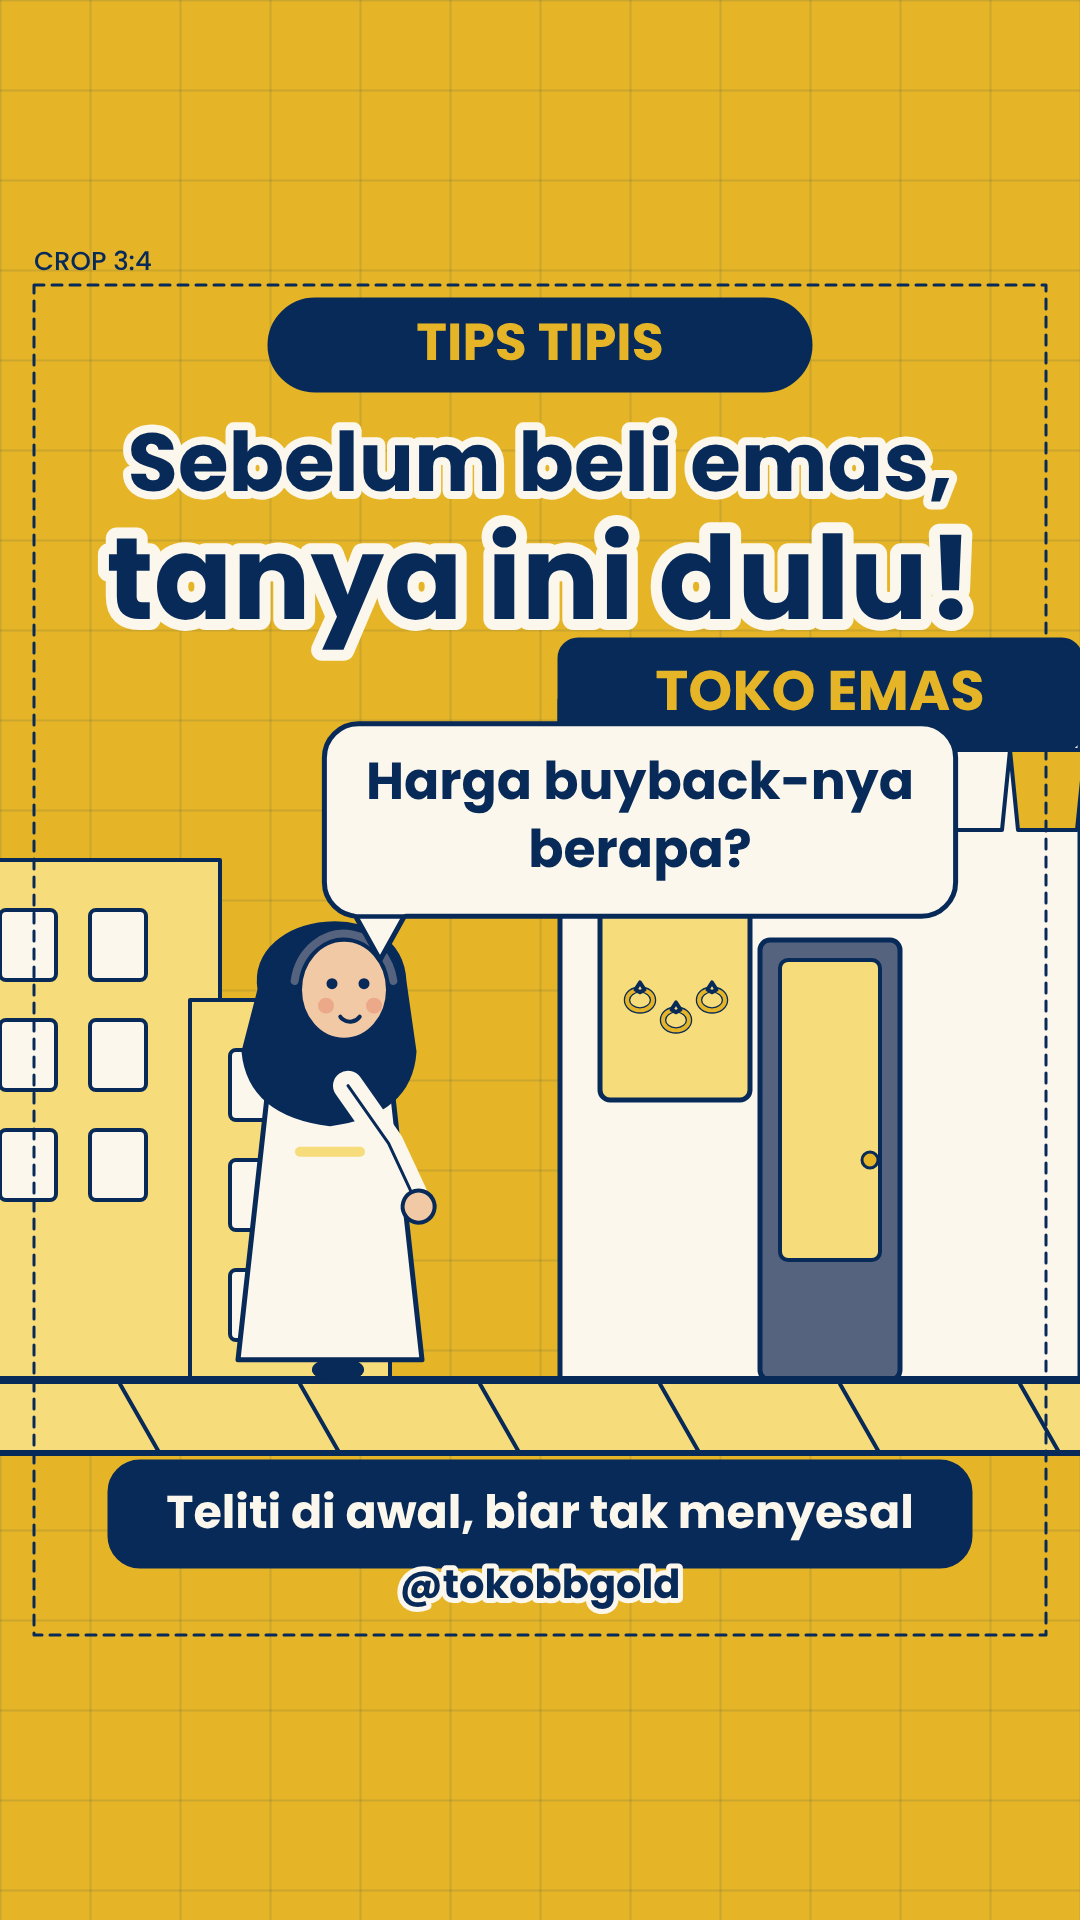
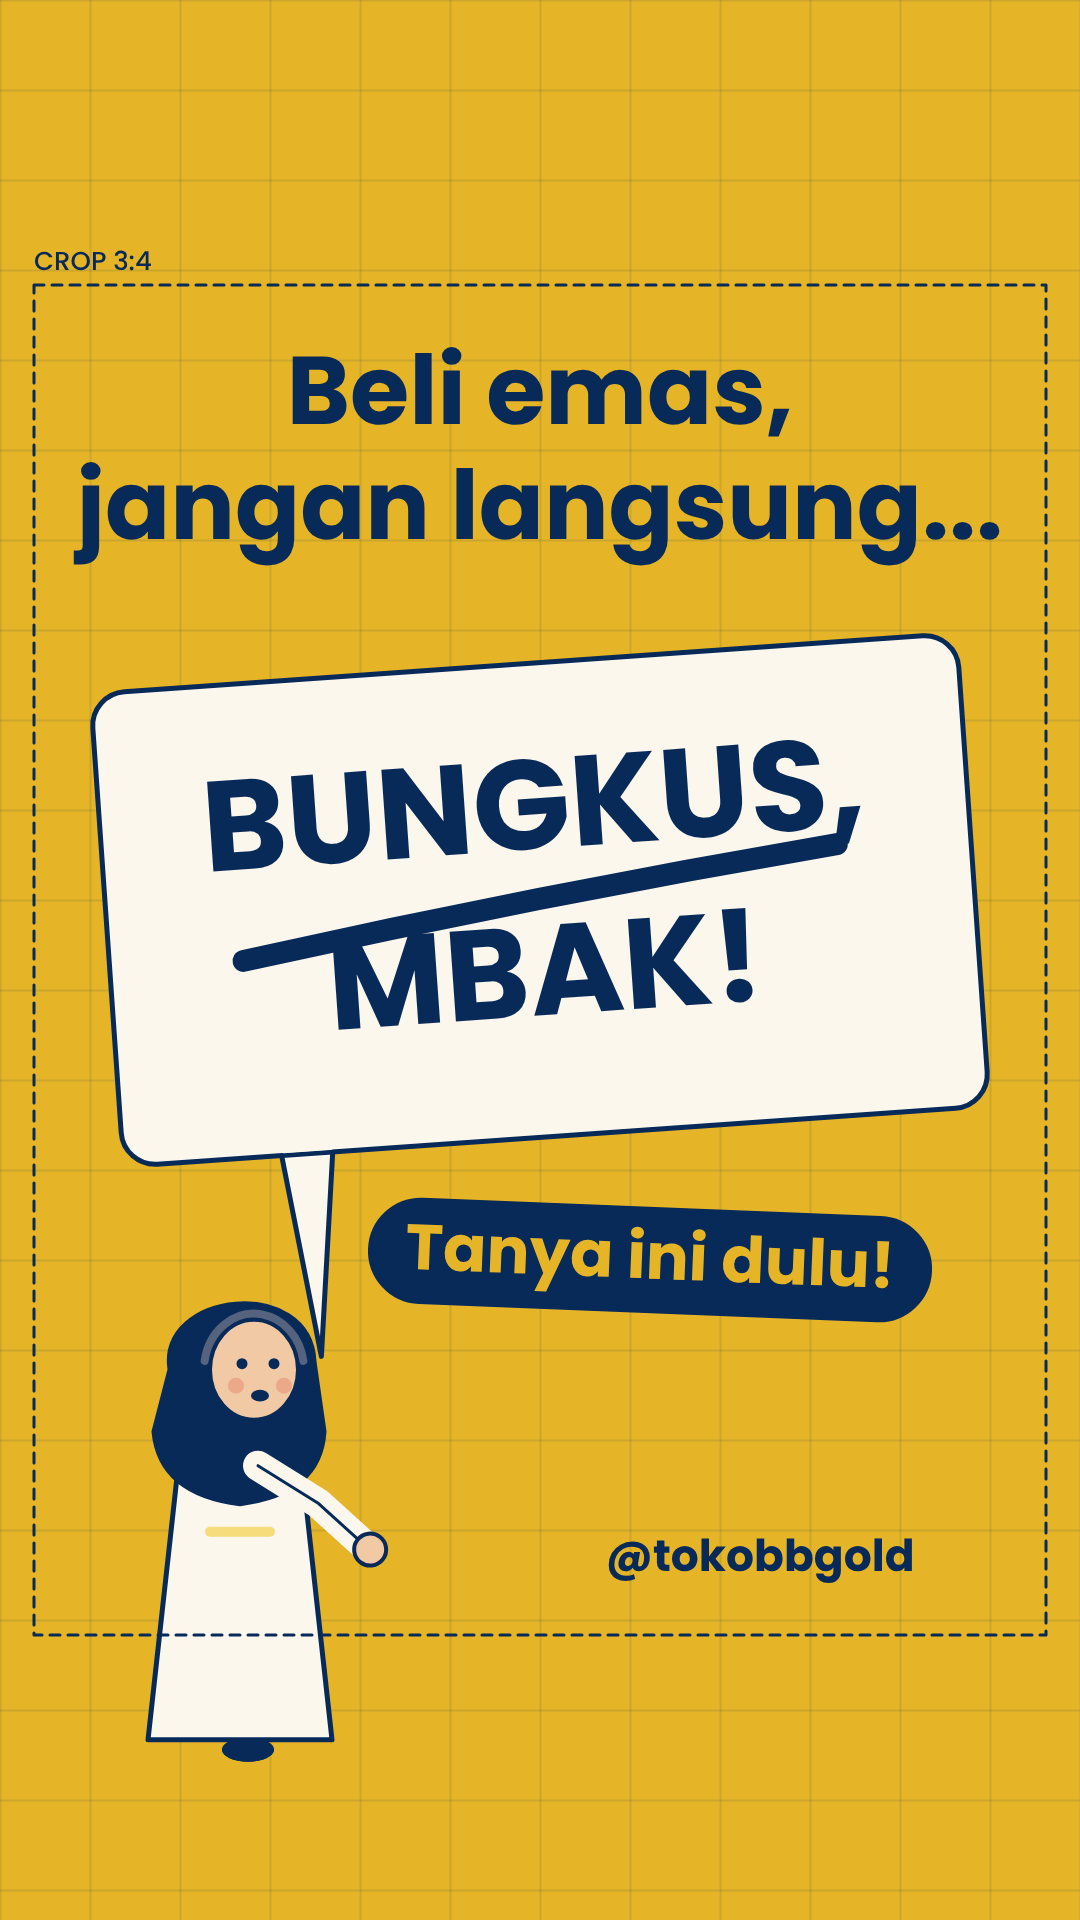
Cover hanya untuk video tips beli: desain baru lebih polos, tulisan besar dan lucu
Claude-Session: https://claude.ai/code/session_01A66KqLmuH4SbiCwxB5x5ub

diff --git a/bbgold-reels/tips-beli/cerita.js b/bbgold-reels/tips-beli/cerita.js
@@ -423,14 +423,18 @@ export async function boot(dataPath) {
   }
 
   function drawCover() {
-    luar(0);
-    ibu(330, 1380, { t: 0.5, jalan: 0, bicara: false, angkat: 0.5 });
-    rrect(270, 300, 540, 90, 45, B); text("TIPS TIPIS", 540, 347, 52, M, 700);
-    text("Sebelum beli emas,", 540, 470, 82, B, 700, "center", K, 16);
-    text("tanya ini dulu!", 540, 590, 116, B, 700, "center", K, 22);
-    bubble(["Harga buyback-nya", "berapa?"], 640, 820, 52, 380, 960);
-    rrect(110, 1462, 860, 104, 30, B); text("Teliti di awal, biar tak menyesal", 540, 1516, 46, K, 700);
-    text("@tokobbgold", 540, 1588, 40, B, 700, "center", K, 10);
+    coverGrid();
+    text("Beli emas,", 540, 400, 96, B, 700);
+    text("jangan langsung...", 540, 515, 96, B, 700);
+    g.save(); g.translate(540, 900); g.rotate(-0.07);
+    bubble(["BUNGKUS,", "MBAK!"], 0, 0, 128, -250, 440);
+    g.restore();
+    // coretan lucu di atas "BUNGKUS, MBAK!"
+    g.save(); g.translate(540, 900); g.rotate(-0.07); g.strokeStyle = B; g.lineCap = "round"; g.lineWidth = 22;
+    g.beginPath(); g.moveTo(-300, 40); g.quadraticCurveTo(0, -5, 300, -35); g.stroke(); g.restore();
+    g.save(); g.translate(650, 1260); g.rotate(0.04); pill("Tanya ini dulu!", 0, 0, 64, B, M); g.restore();
+    ibu(240, 1760, { t: 0.5, jalan: 0, bicara: true, angkat: 0.9 });
+    text("@tokobbgold", 760, 1560, 44, B, 700);
   }
 
   const CEK = new URLSearchParams(location.search).has("crop");
